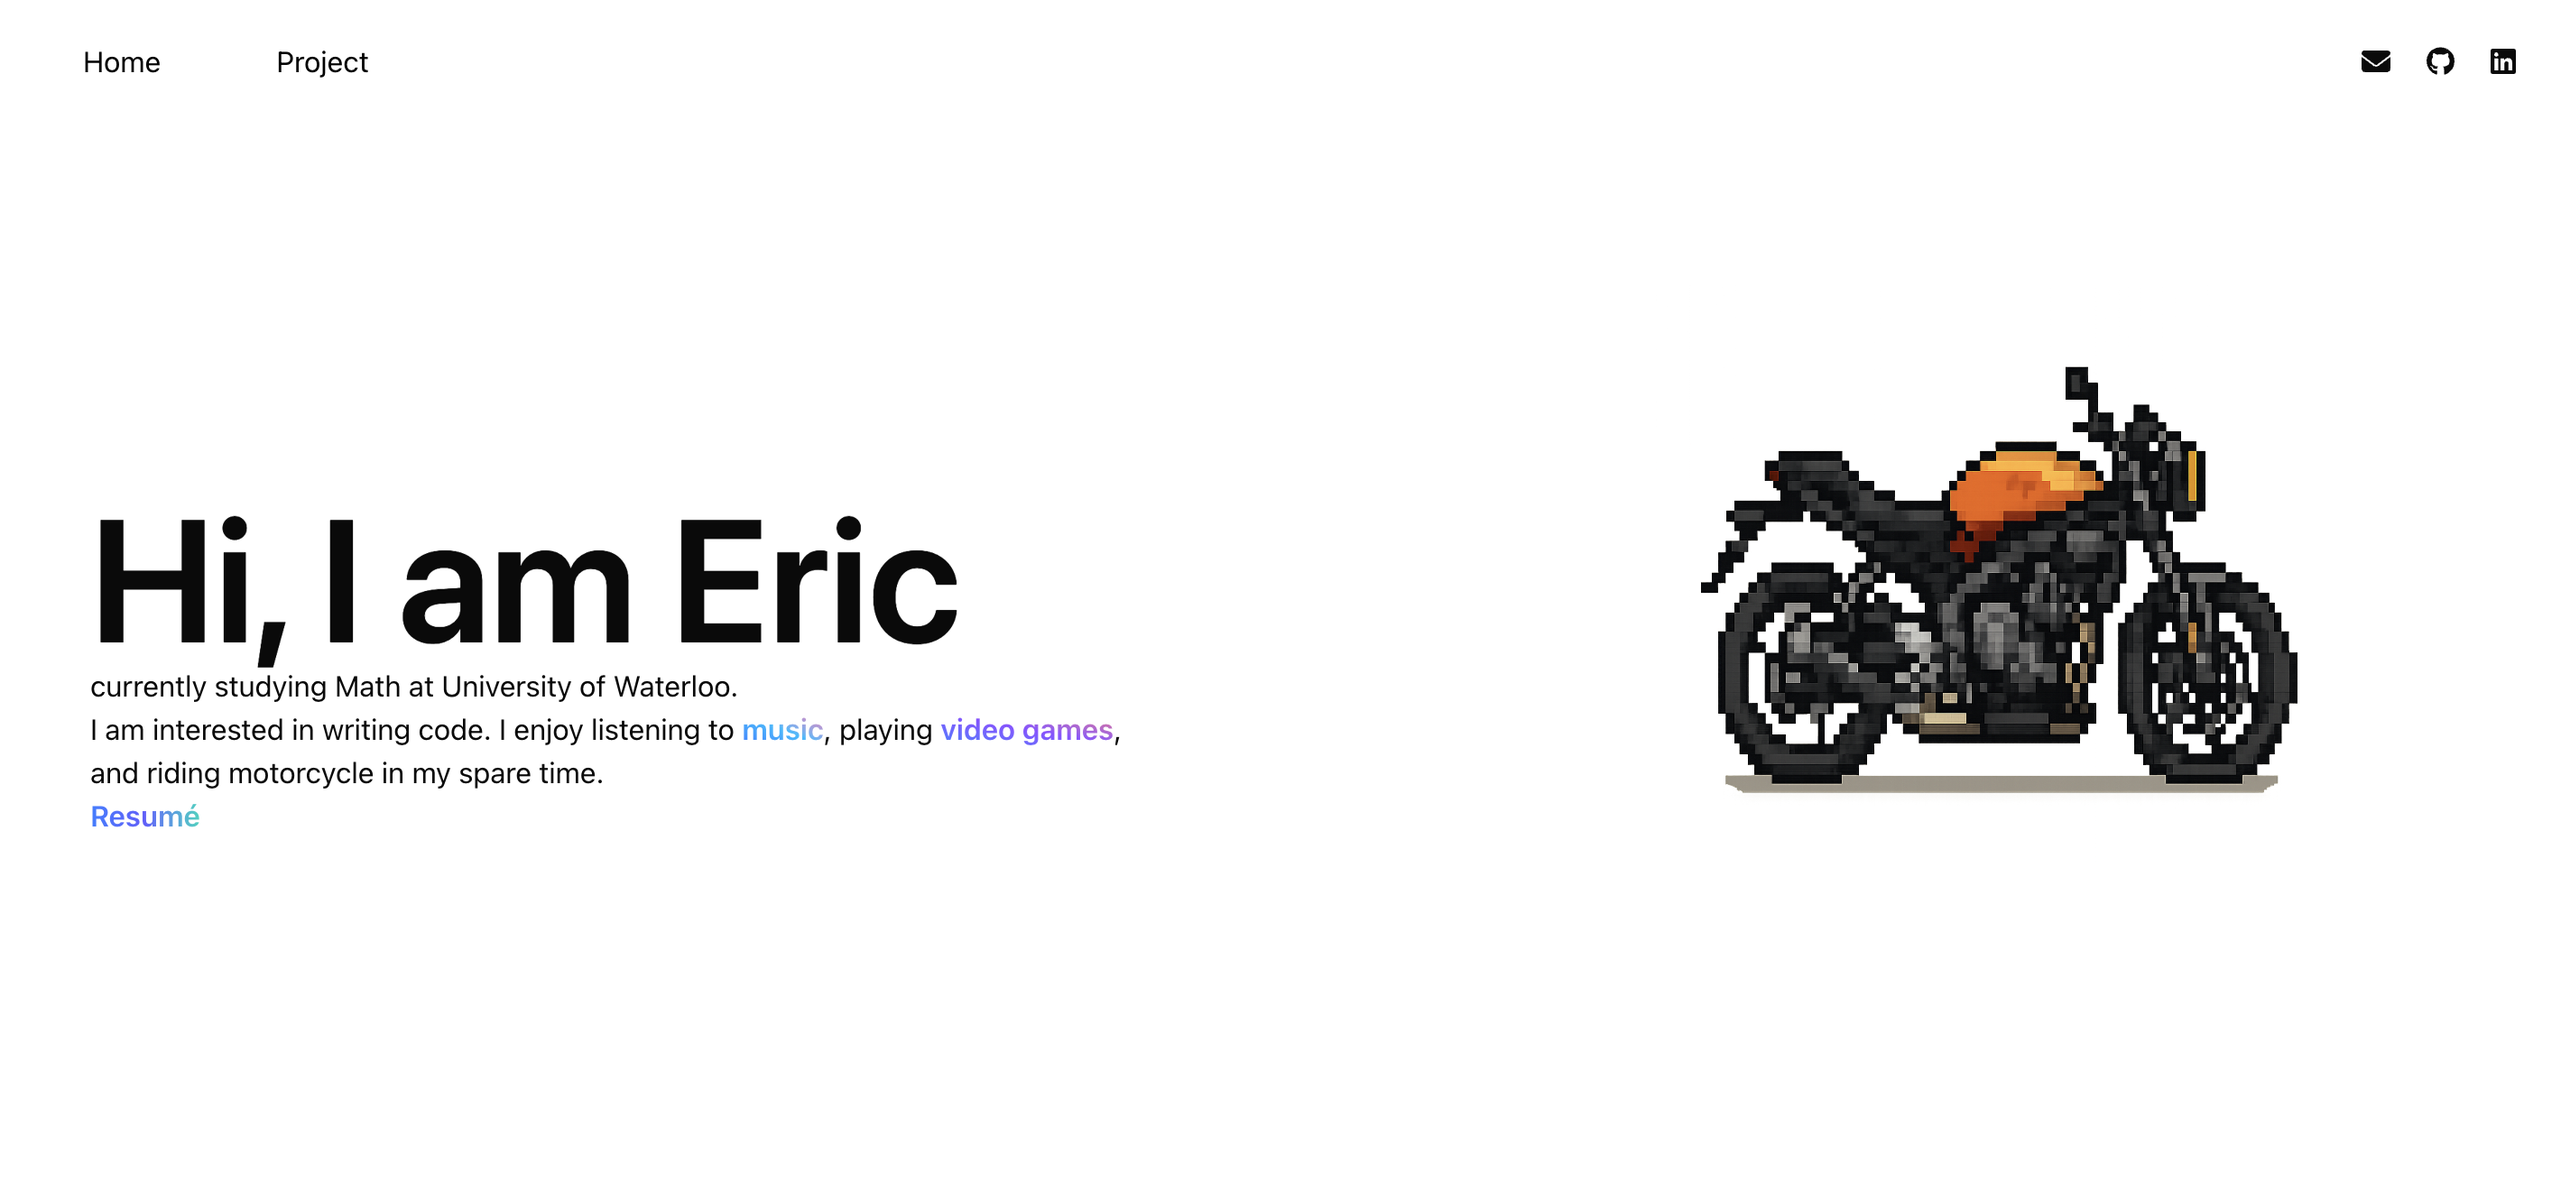
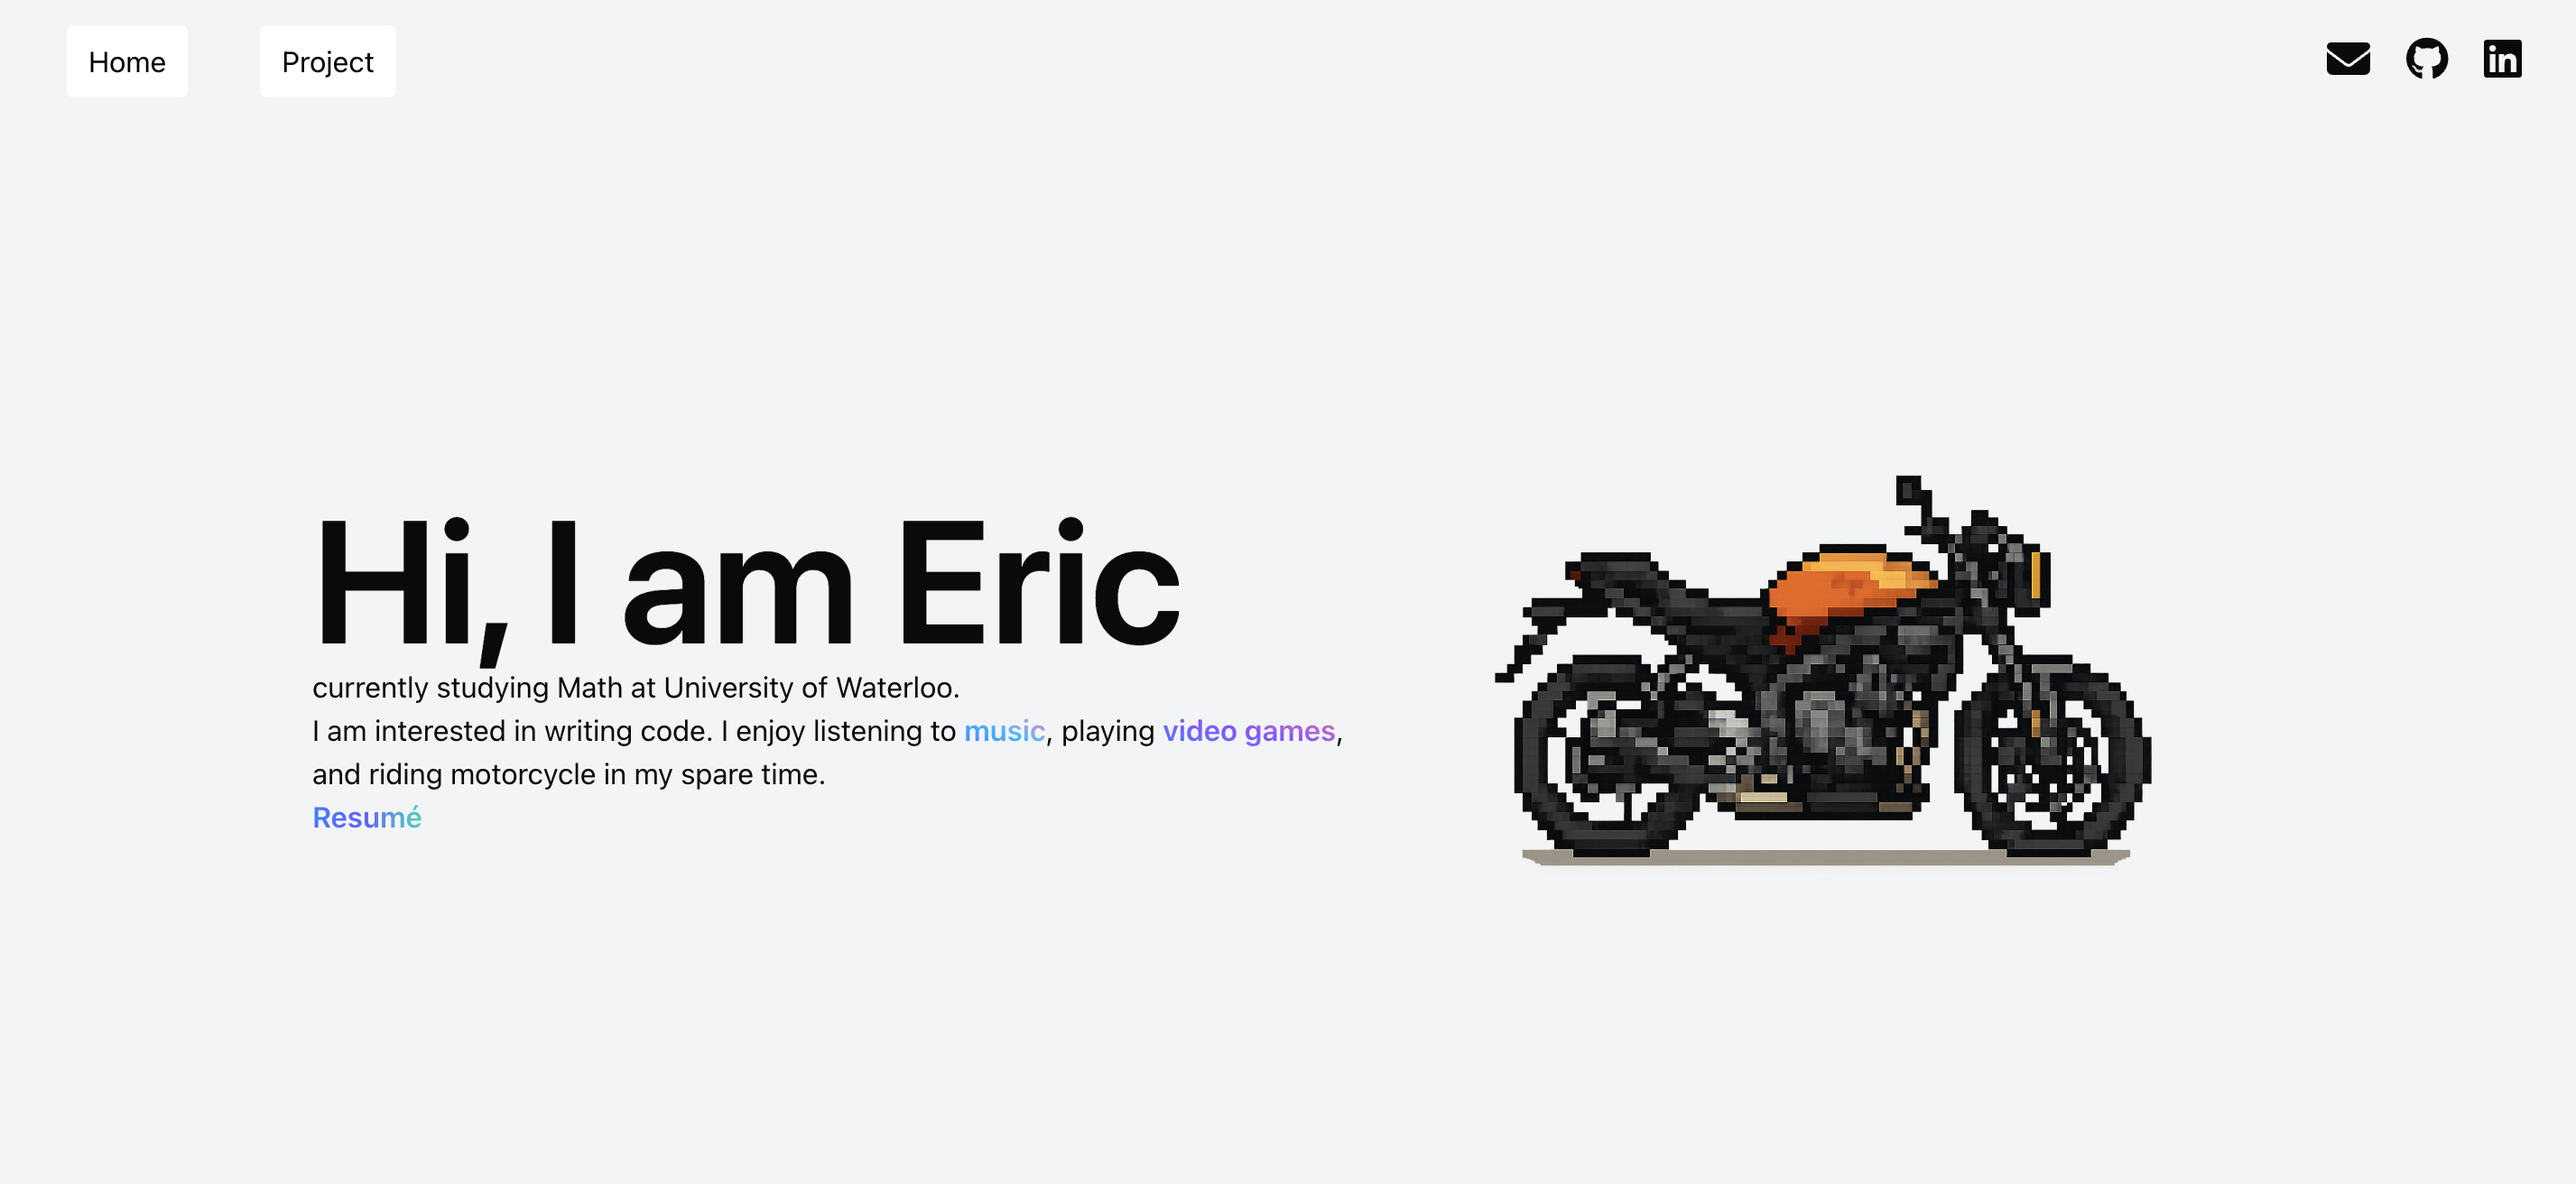
pic

diff --git a/app/page.tsx b/app/page.tsx
@@ -10,7 +10,7 @@ export default function Home() {
     setIsFirstImage((prev) => !prev);
   };
   return (
-    <main>
+    <main className="bg-gray-100 min-h-screen">
       <div className="container mx-auto px-10 flex flex-col min-h-fit">
         <Intro />
         <Project />
